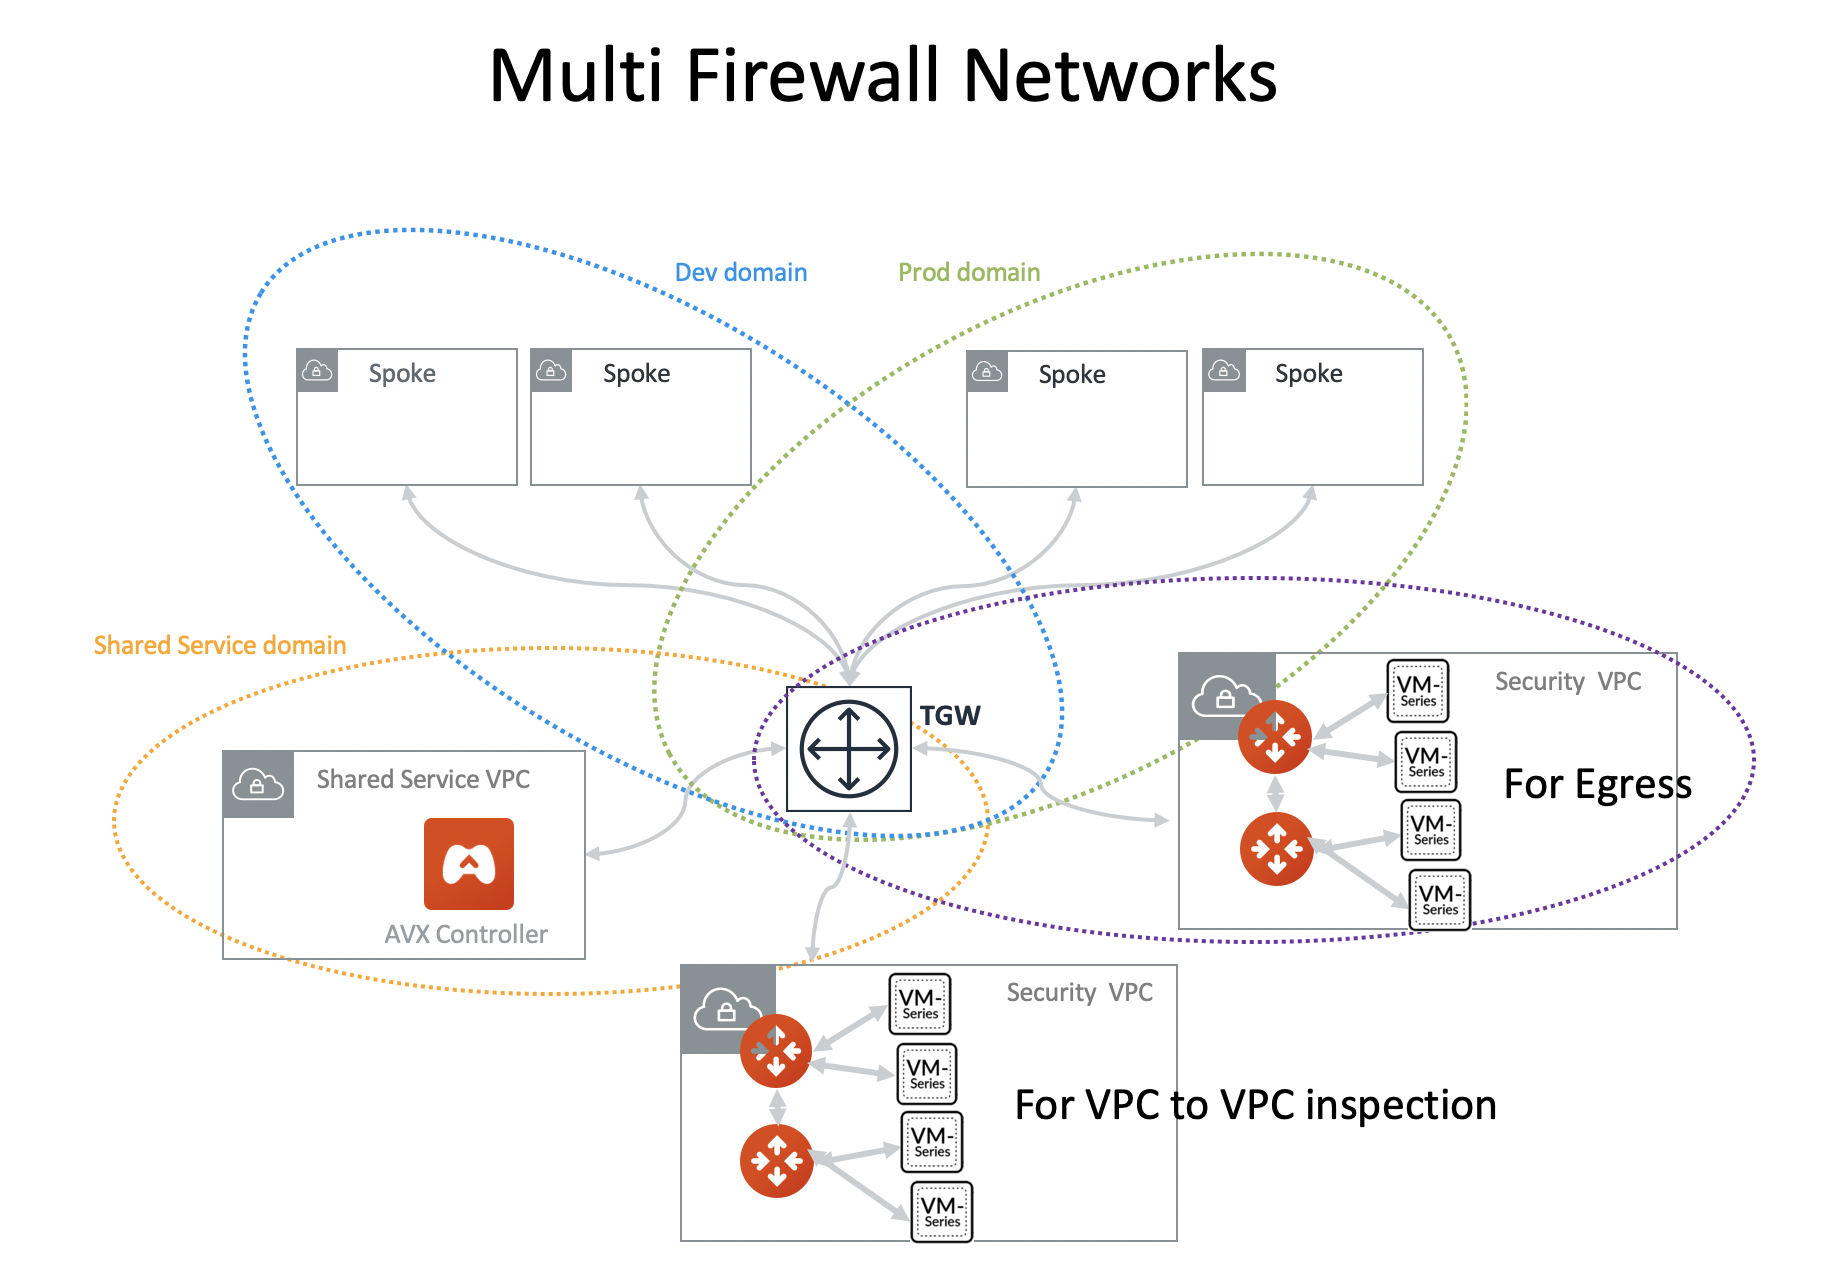
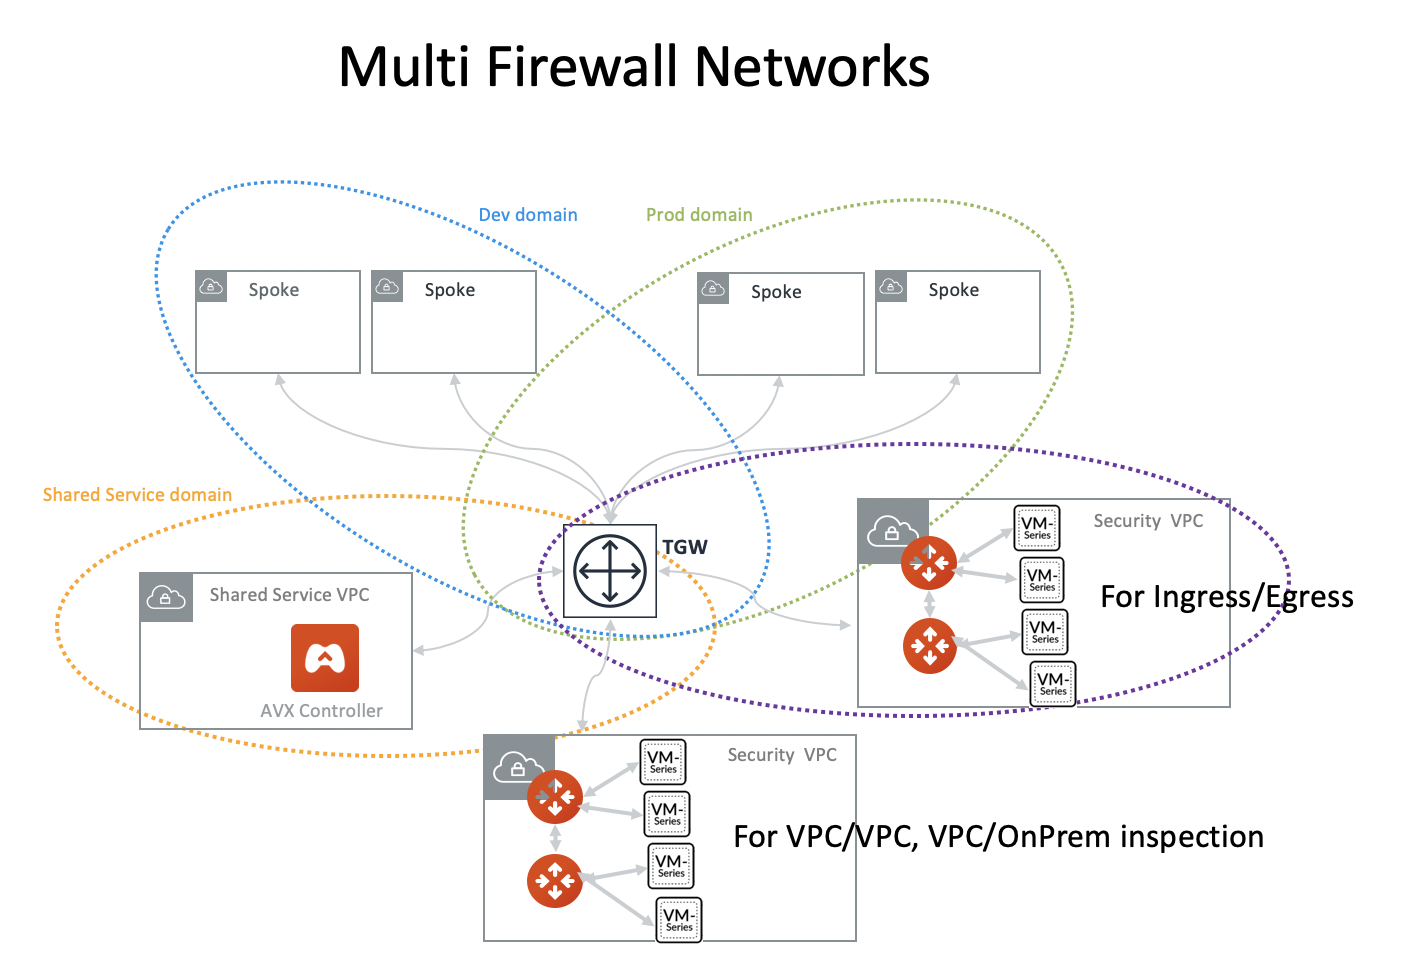
update firenet diagrams

diff --git a/HowTos/firewall_network_faq.rst b/HowTos/firewall_network_faq.rst
@@ -248,11 +248,14 @@ Connect to on-prem with Aviatrix Edge gateway for both hybrid and multi regions.
 
 |multi_region_aviatrix_edge|
 
-FireNet Deployment Model 6 - Multi Firewall Networks 
+FireNet Deployment Model 6 - Two Firewall Networks 
 --------------------------------------------------------
 
-You can deploy multiple Firewall Networks, one dedicated for VPC to VPC traffic inspection and another for Egress
+You can deploy two Firewall Networks, one dedicated for VPC to VPC traffic inspection and another for Ingress/Egress
 inspection.
+
+When Ingress inspection is deployed, make sure you enable SNAT on the firewall instance to source NAT the private 
+IP address of NLB or a third party load balancer the IP address of LAN (or Trusted) interface of the FireNet. 
 
 |multi_firewall|
 
